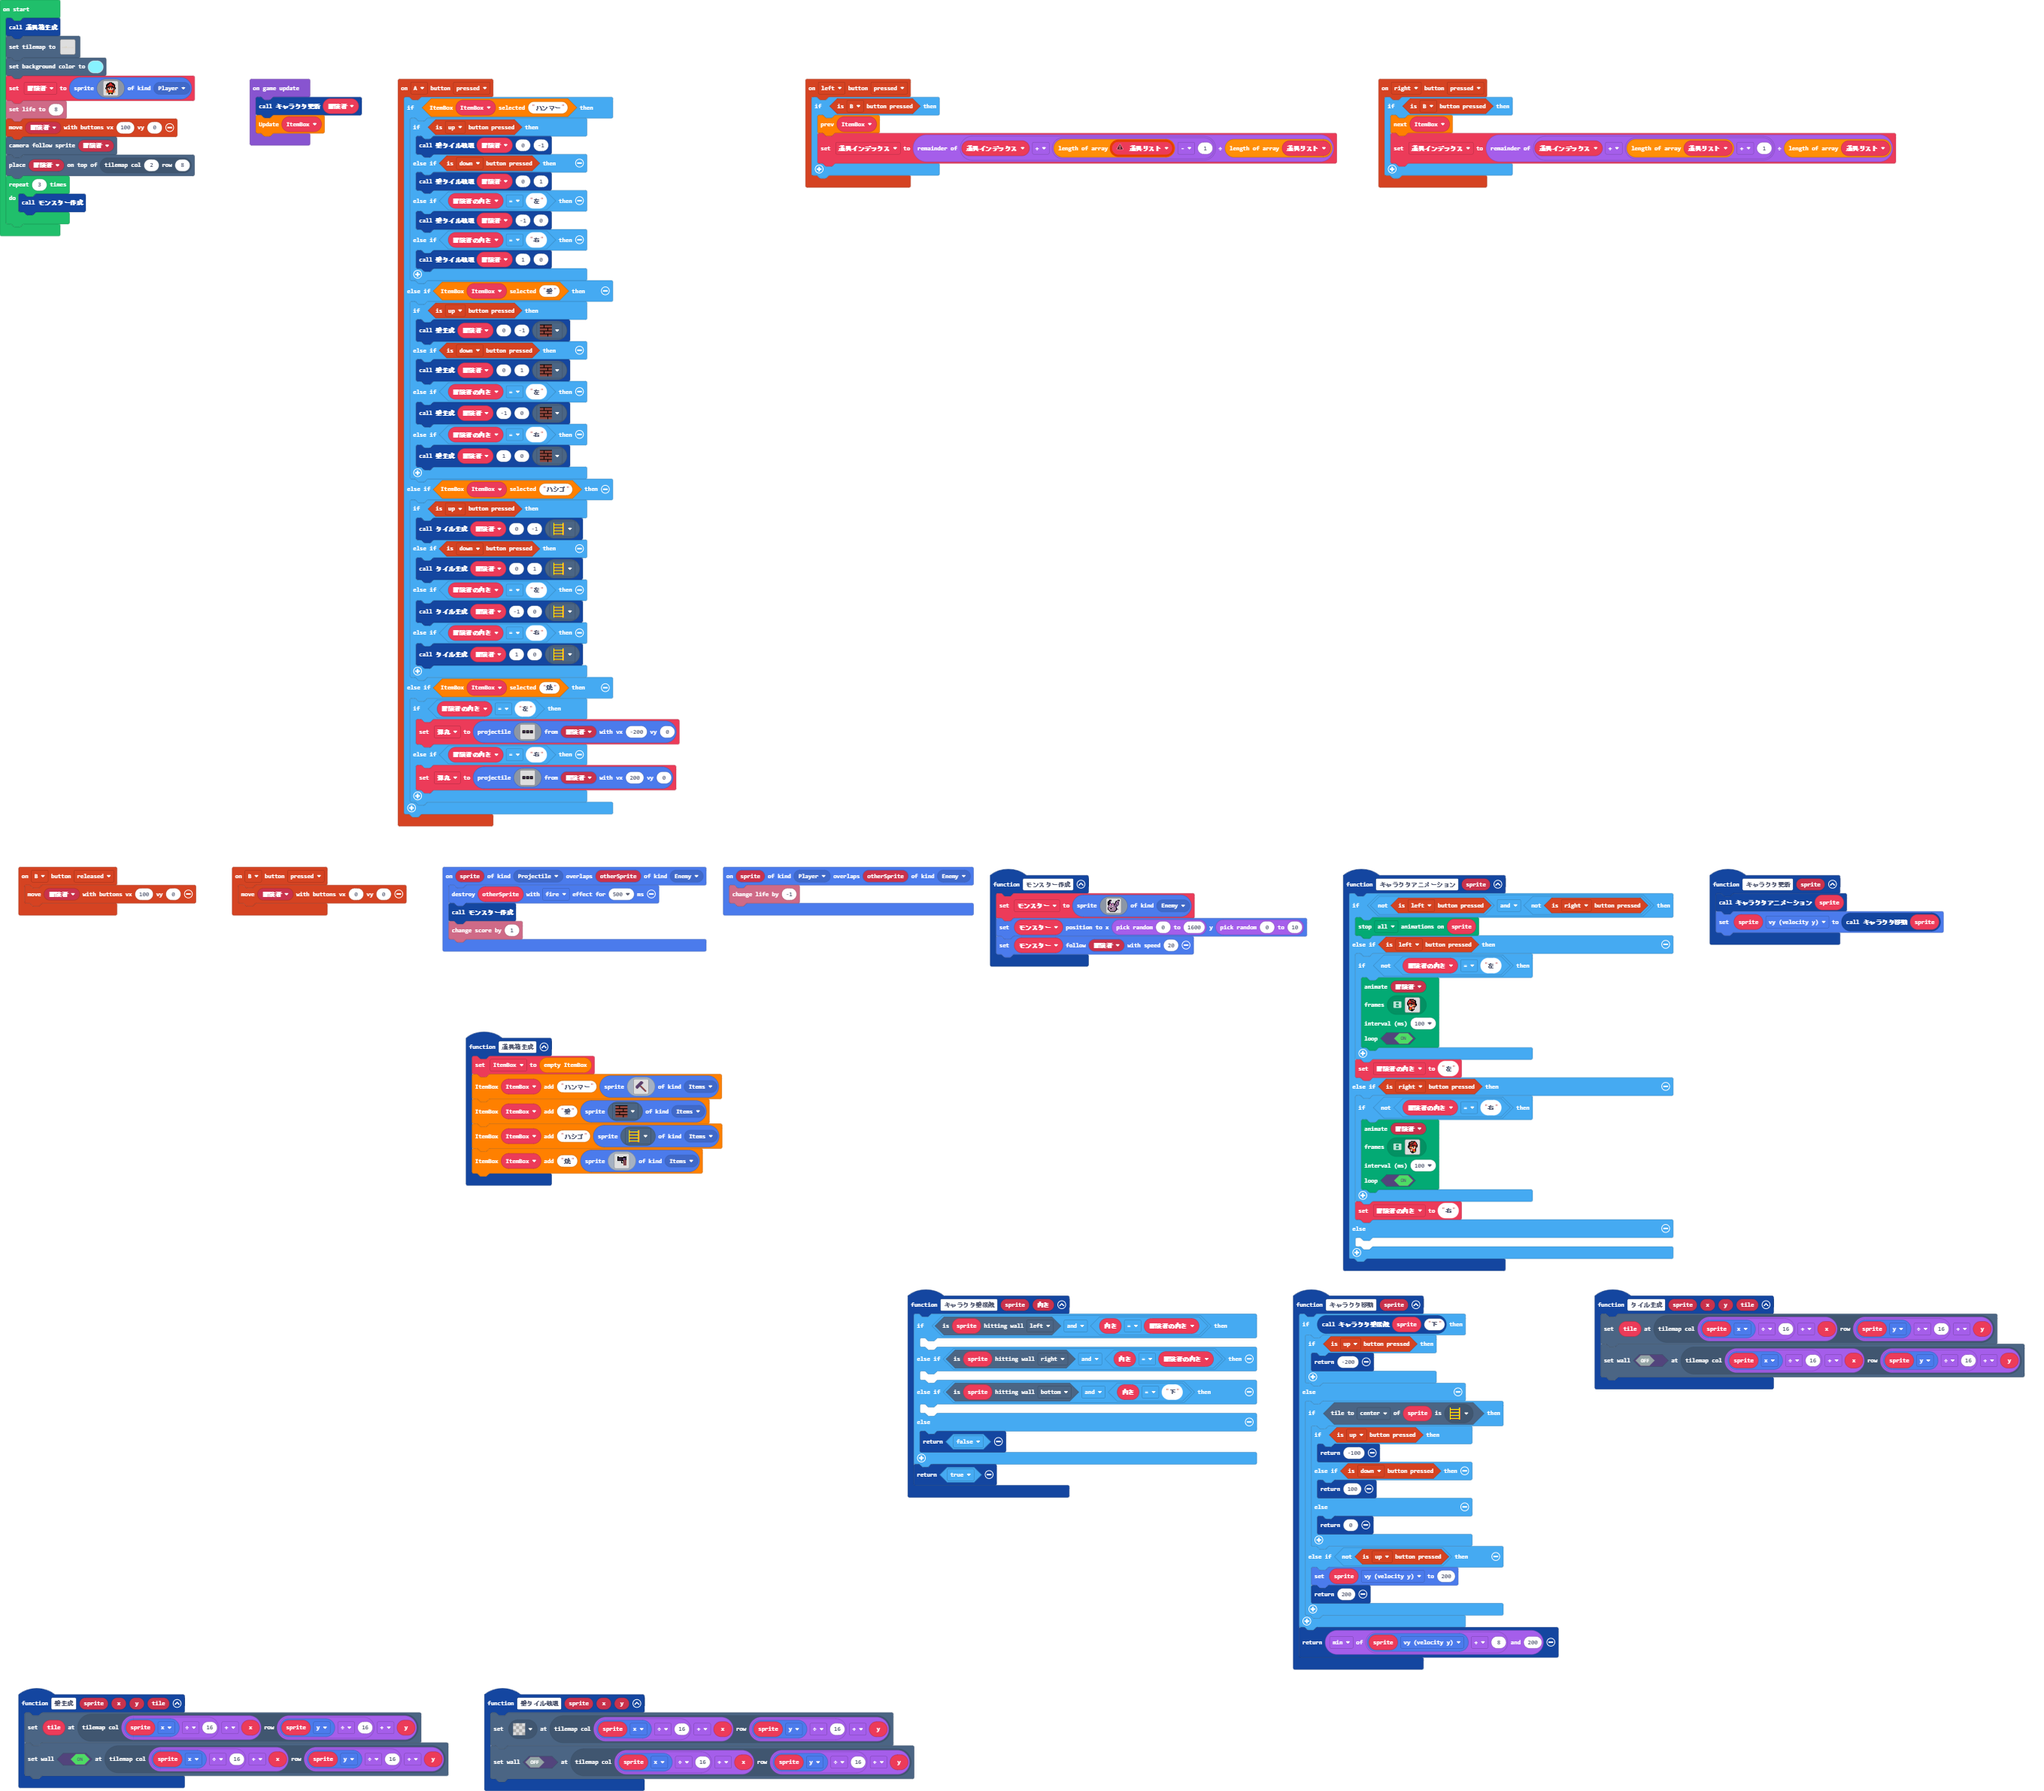
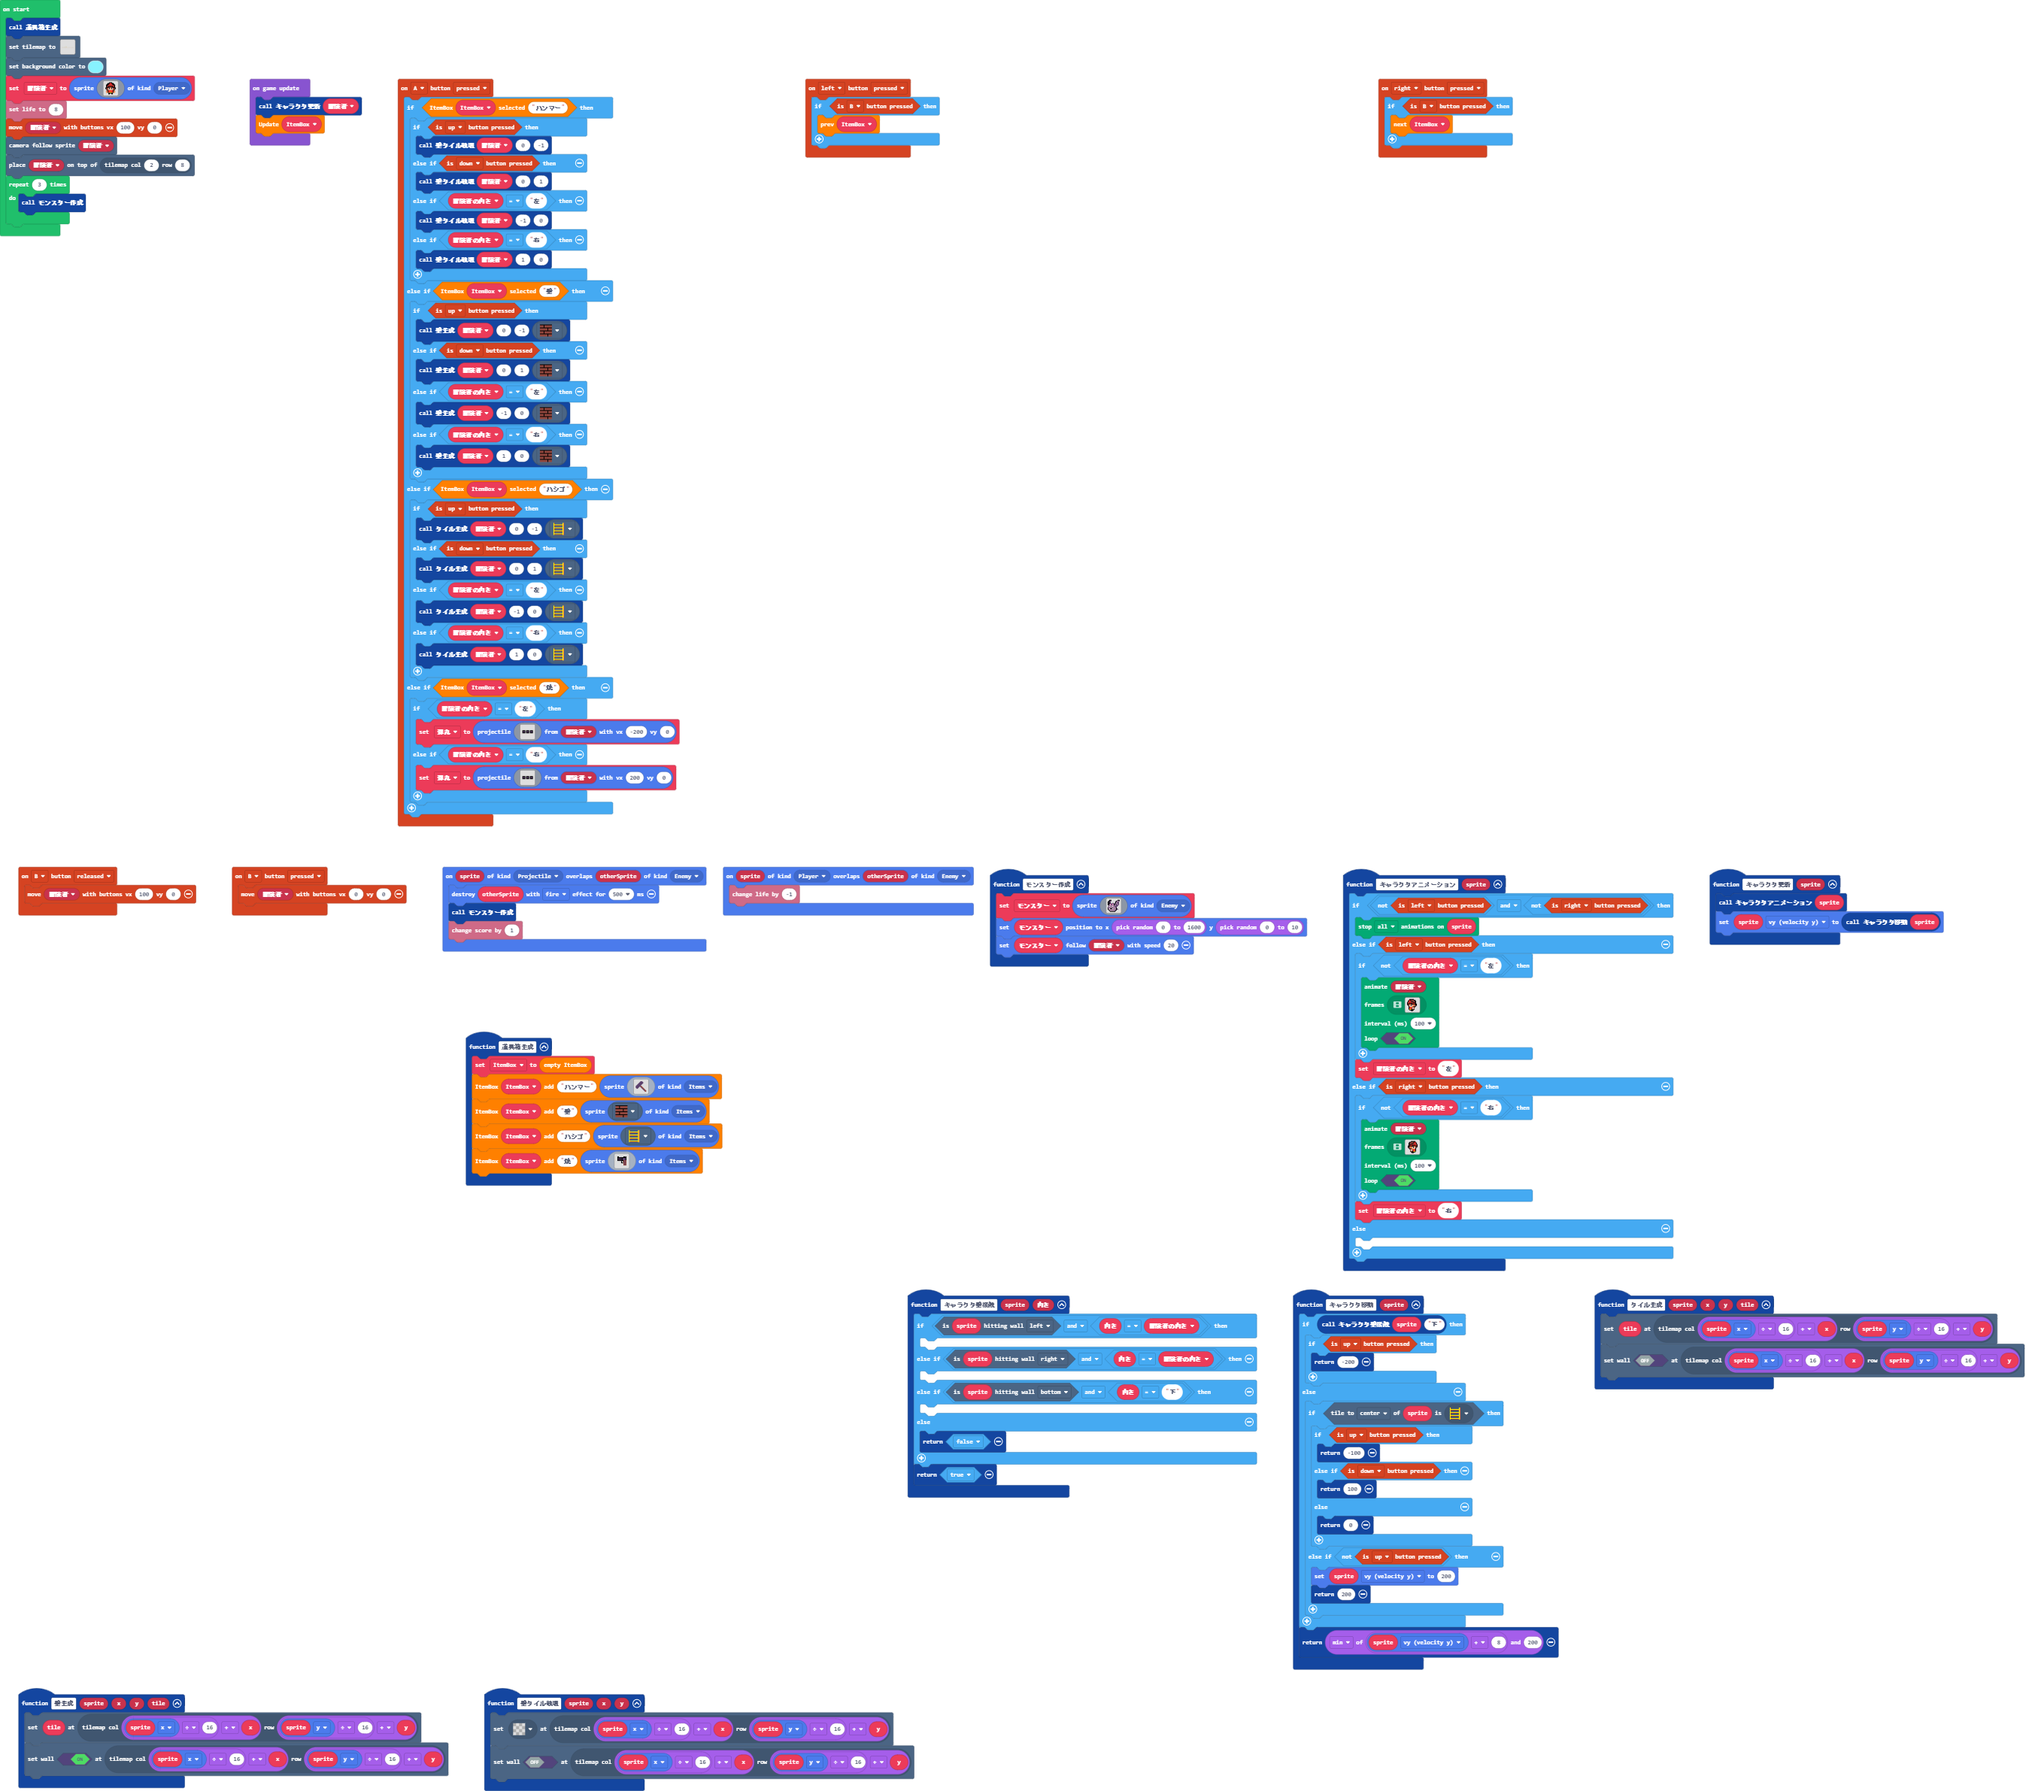
Update main.blocks, main.ts, tilemap.g.jres, tilemap.g.ts

Changed region(s): [[0.4018, 0.0621, 0.9272, 0.1243]]

diff --git a/tilemap.g.ts b/tilemap.g.ts
@@ -85,6 +85,25 @@ namespace myTiles {
 . . . . . . . . . . . . . . . . 
 . . . . . . . . . . . . . . . . 
 `, [myTiles.transparency16], TileScale.Sixteen);
+            case "level5":
+            case "level5":return tiles.createTilemap(hex`1000100000000000000000000000000000000000000000000000000000000000000000000000000000000000000000000000000000000000000000000000000000000000000000000000000000000000000000000000000000000000000000000000000000000000000000000000000000000000000000000000000000000000000000000000000000000000000000000000000000000000000000000000000000000000000000000000000000000000000000000000000000000000000000000000000000000000000000000000000000000000000000000000000000000000000000000000000000000000000000000000000000000000000000000000000000000000`, img`
+. . . . . . . . . . . . . . . . 
+. . . . . . . . . . . . . . . . 
+. . . . . . . . . . . . . . . . 
+. . . . . . . . . . . . . . . . 
+. . . . . . . . . . . . . . . . 
+. . . . . . . . . . . . . . . . 
+. . . . . . . . . . . . . . . . 
+. . . . . . . . . . . . . . . . 
+. . . . . . . . . . . . . . . . 
+. . . . . . . . . . . . . . . . 
+. . . . . . . . . . . . . . . . 
+. . . . . . . . . . . . . . . . 
+. . . . . . . . . . . . . . . . 
+. . . . . . . . . . . . . . . . 
+. . . . . . . . . . . . . . . . 
+. . . . . . . . . . . . . . . . 
+`, [myTiles.transparency16], TileScale.Sixteen);
         }
         return null;
     })

diff --git a/main.ts b/main.ts
@@ -72,7 +72,6 @@ controller.A.onEvent(ControllerButtonEvent.Pressed, function () {
 controller.left.onEvent(ControllerButtonEvent.Pressed, function () {
     if (controller.B.isPressed()) {
         ItemBox2.prev()
-        道具インデックス = (道具インデックス + (道具リスト.length - 1)) % 道具リスト.length
     }
 })
 function 道具箱生成 () {
@@ -89,7 +88,6 @@ function キャラクタ更新 (sprite: Sprite) {
 controller.right.onEvent(ControllerButtonEvent.Pressed, function () {
     if (controller.B.isPressed()) {
         ItemBox2.next()
-        道具インデックス = (道具インデックス + (道具リスト.length + 1)) % 道具リスト.length
     }
 })
 function 壁生成 (sprite: Sprite, x: number, y: number, tile: Image) {
@@ -307,8 +305,6 @@ sprites.onOverlap(SpriteKind.Projectile, SpriteKind.Enemy, function (sprite, oth
 sprites.onOverlap(SpriteKind.Player, SpriteKind.Enemy, function (sprite, otherSprite) {
     info.changeLifeBy(-1)
 })
-let 道具リスト: number[] = []
-let 道具インデックス = 0
 let 弾丸: Sprite = null
 let 冒険者の向き = ""
 let ItemBox2: ItemBox = null
